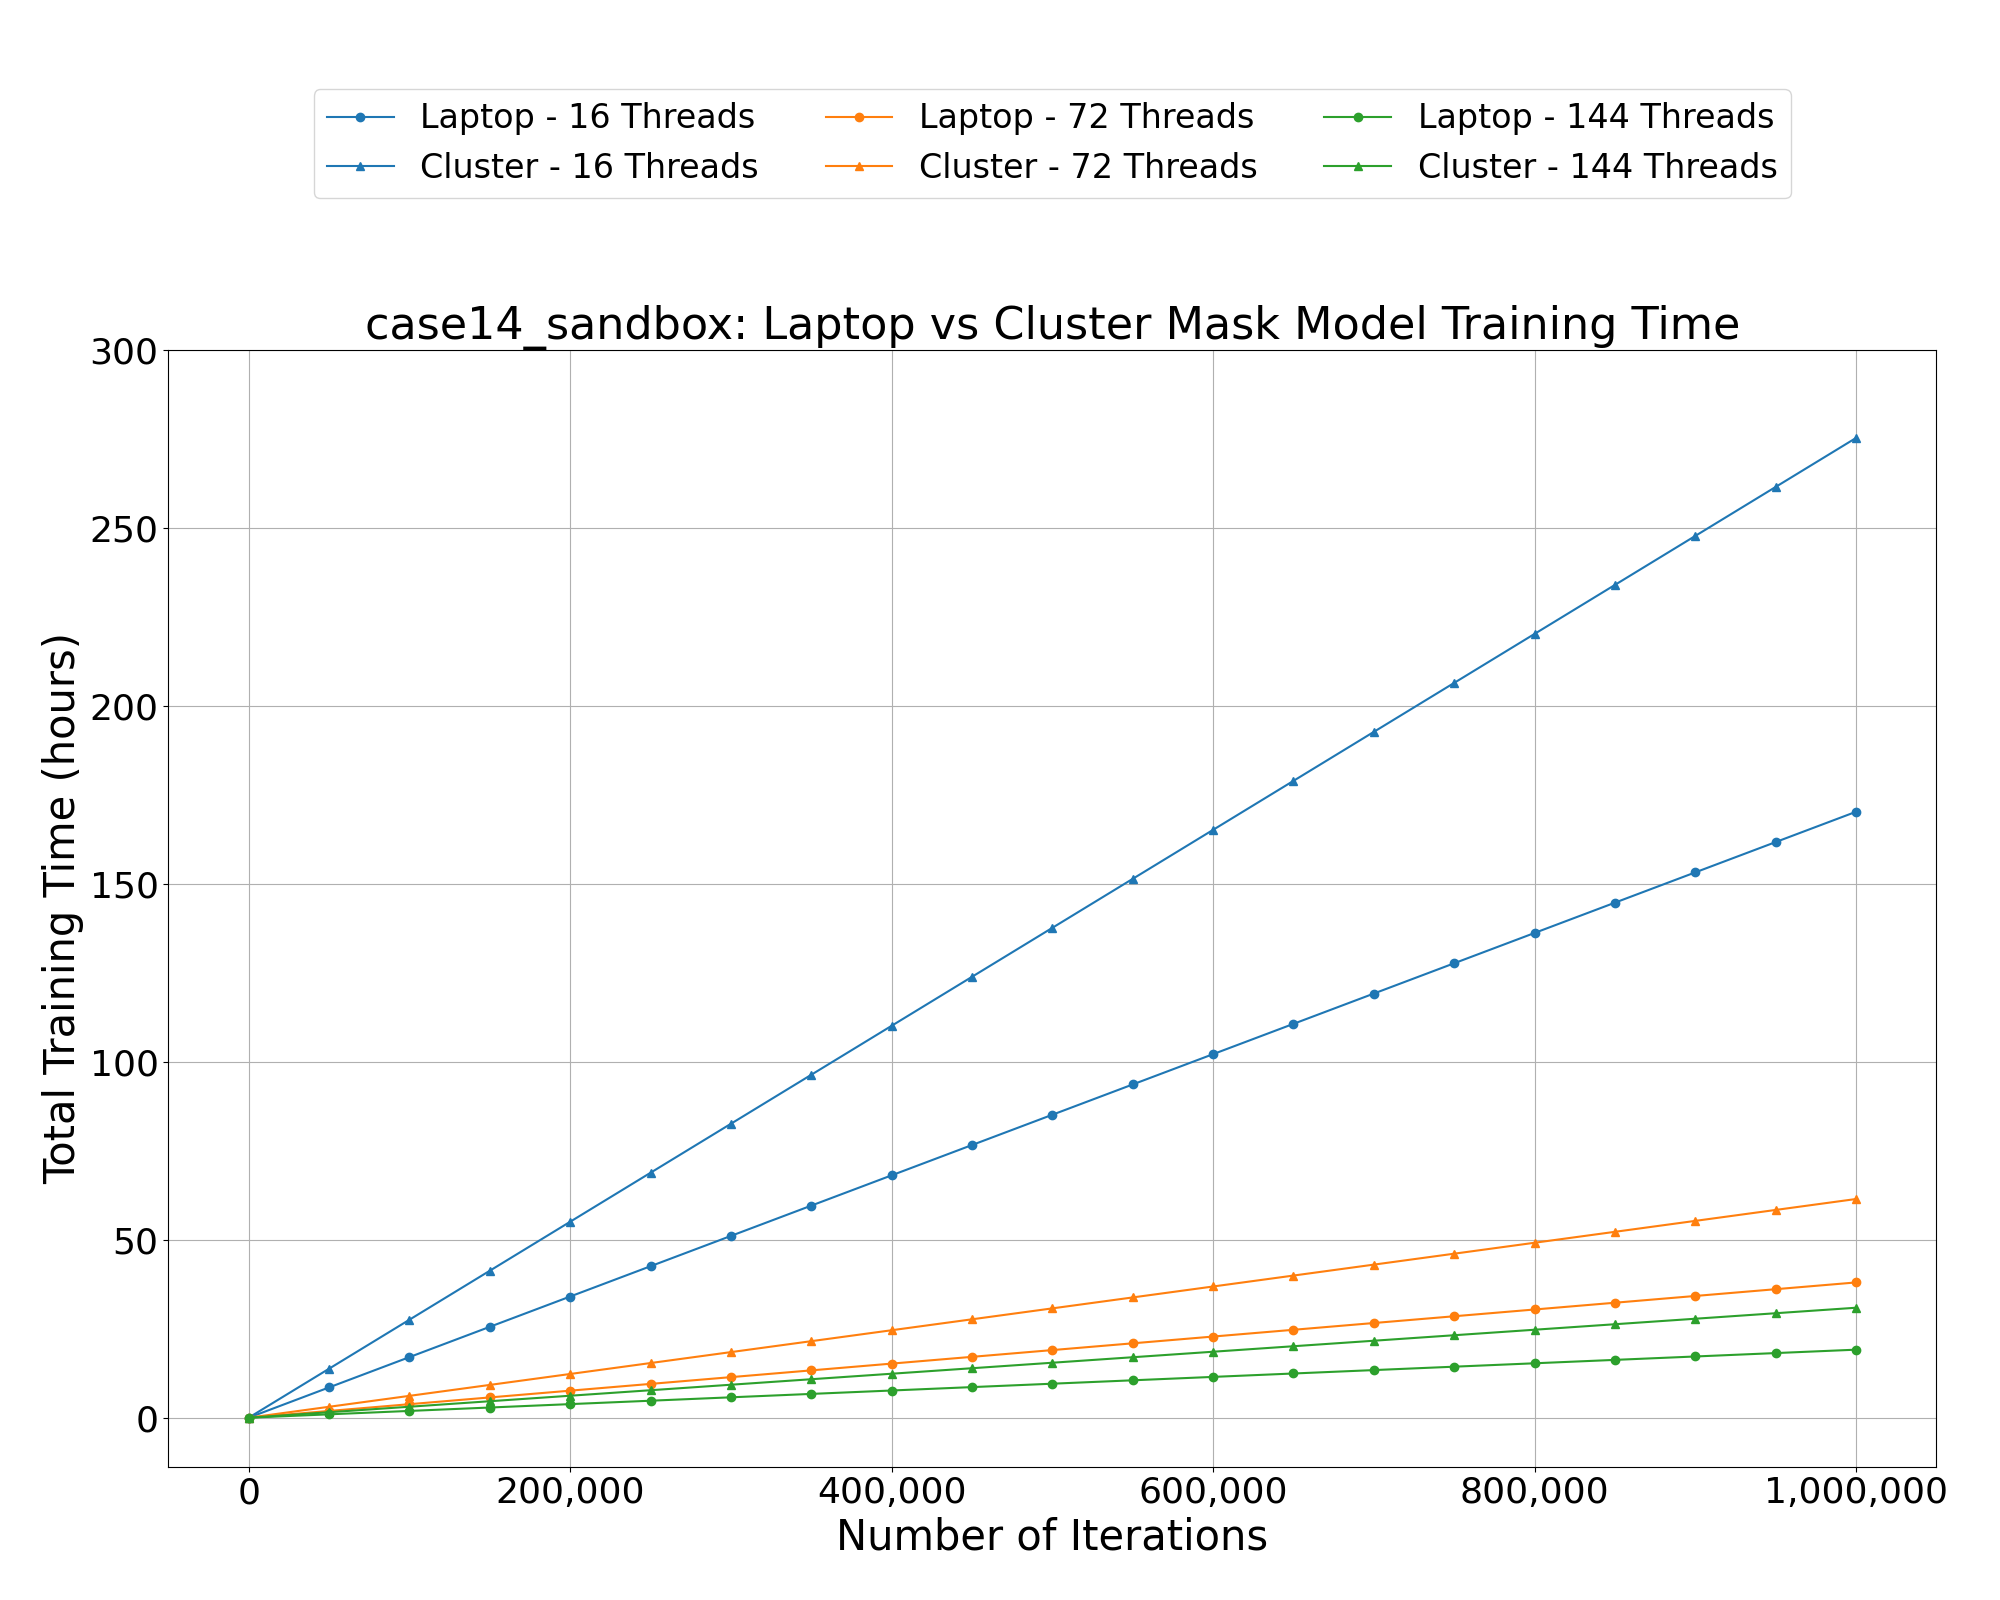
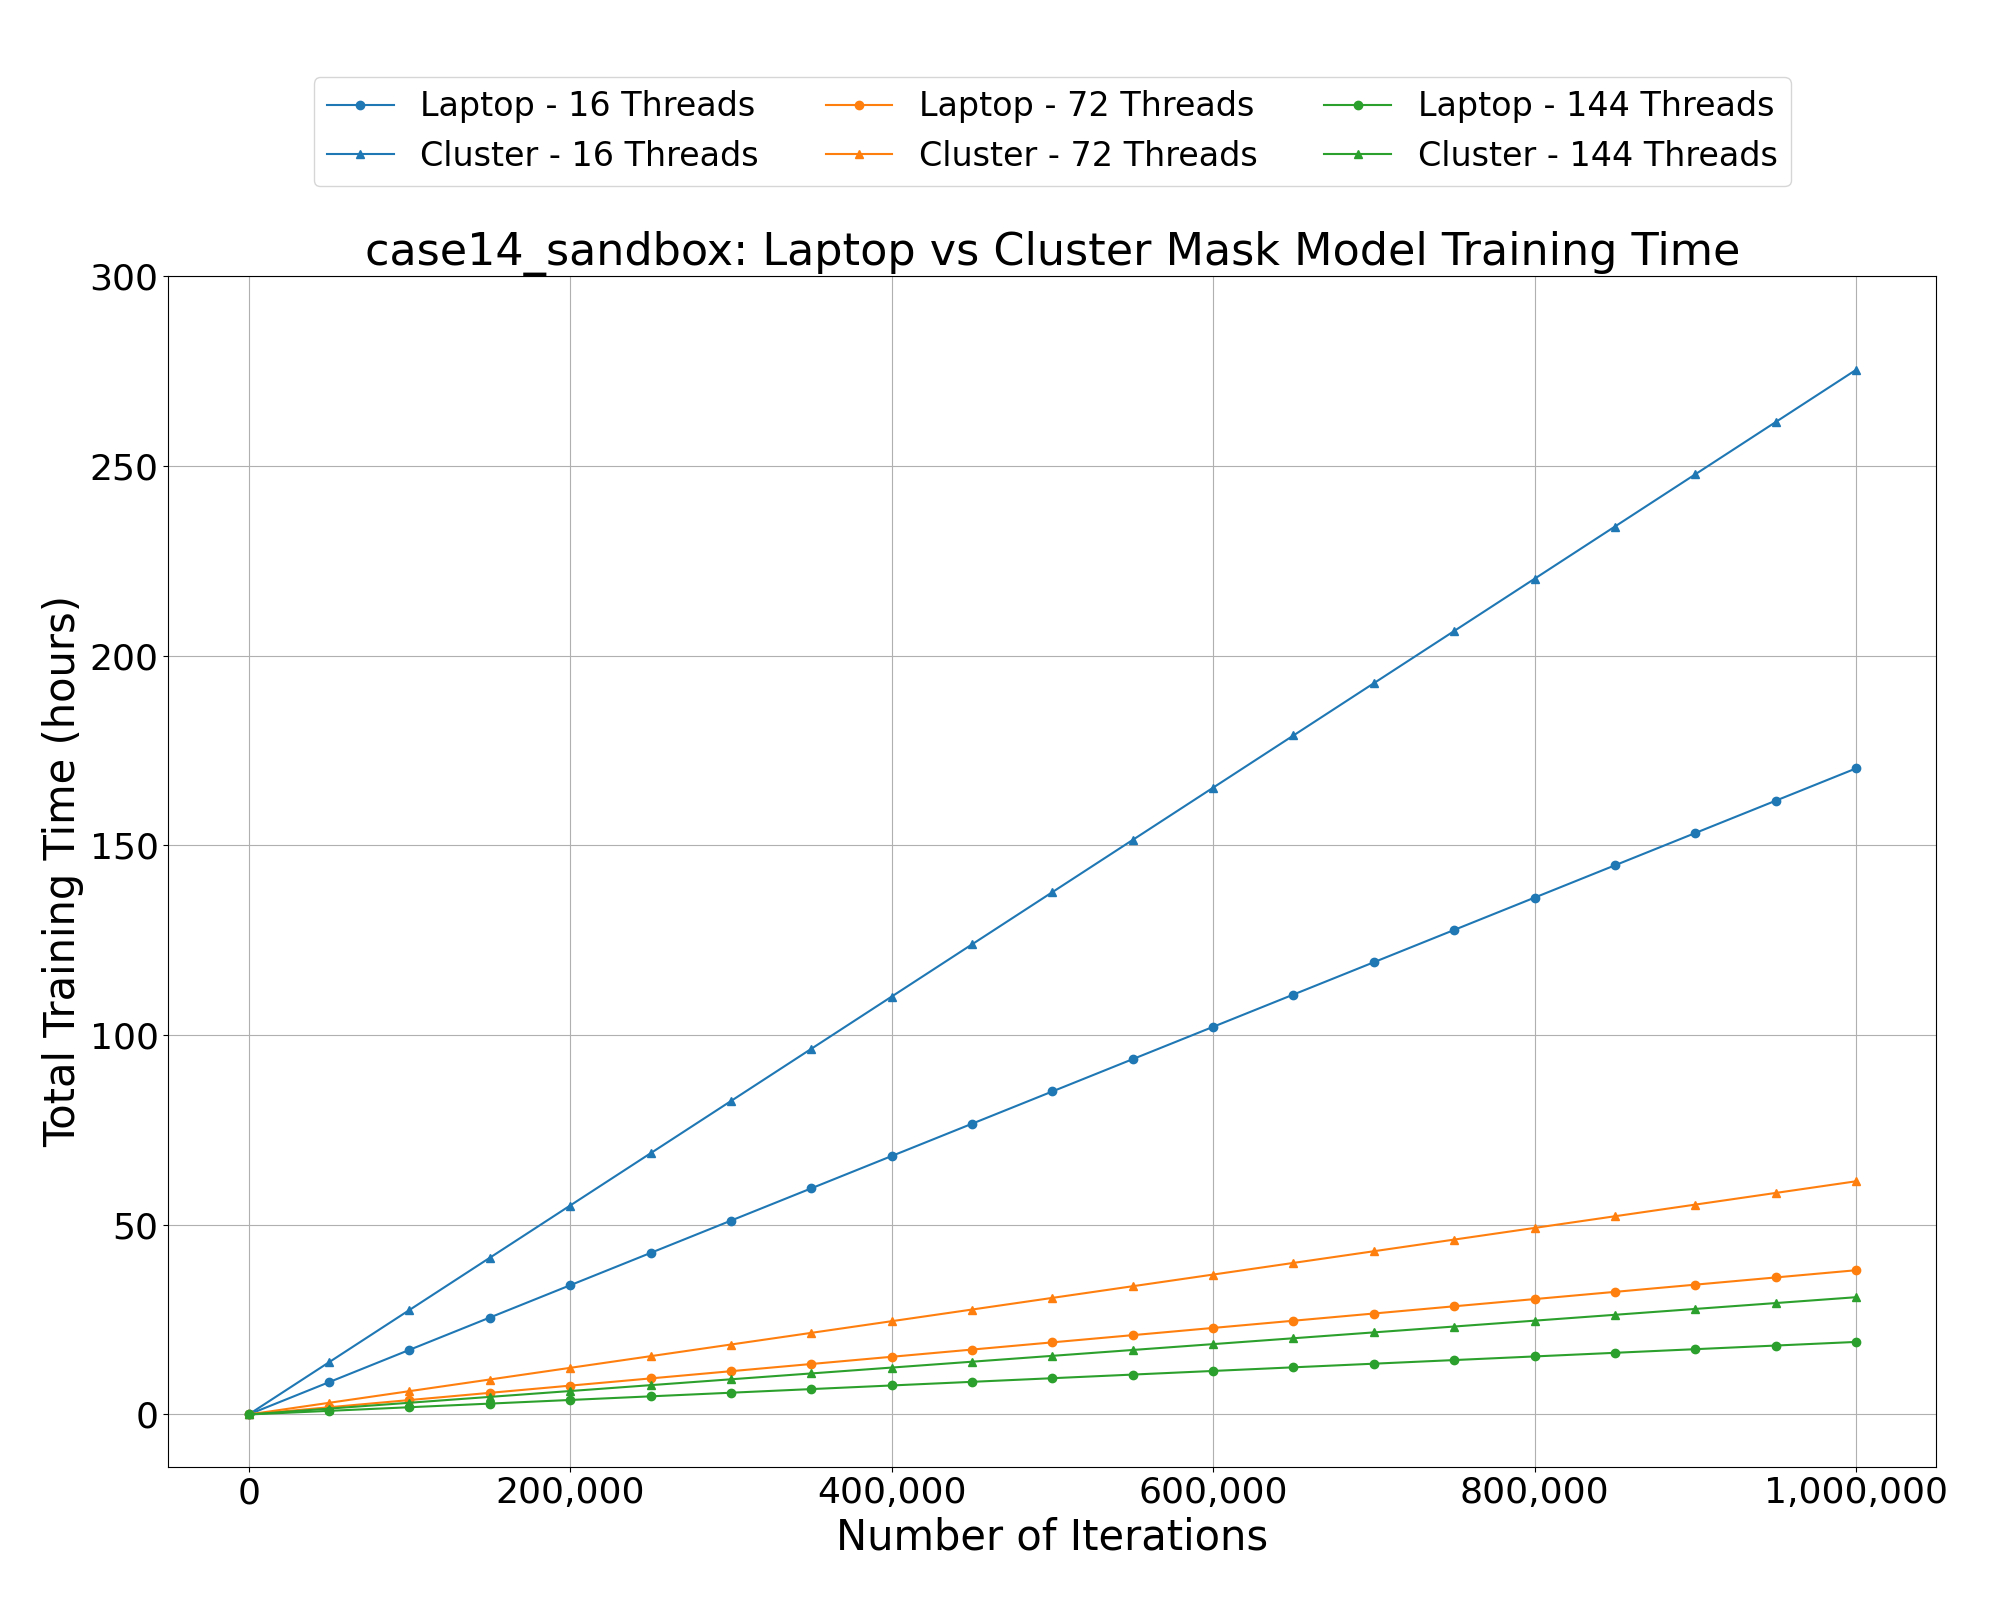
WIP plots

diff --git a/src/plots.py b/src/plots.py
@@ -94,13 +94,19 @@ def plot_env_comparison(
             plt.ylabel("Total Training Time (hours, years)")
 
             # Let matplotlib handle log ticks automatically for better results
-            # Optionally, you can format the tick labels to show years as well:
             def log_year_formatter(x, pos):
                 if x <= 0:
                     return "0"
                 return f"{int(x):,}\n({x/8760:.2f}y)"
 
             ax.yaxis.set_major_formatter(mticker.FuncFormatter(log_year_formatter))
+
+            # Add more horizontal grid lines (minor grid)
+            ax.yaxis.set_minor_locator(
+                mticker.LogLocator(base=10.0, subs=np.arange(1, 10), numticks=100)
+            )
+            ax.grid(which="minor", axis="y", linestyle=":", linewidth=0.7, alpha=0.6)
+            ax.grid(which="major", axis="y", linestyle="-", linewidth=1.2)
         else:
             # Only show hours, no weeks for sandbox
             hours_ticks = ax.get_yticks()
@@ -114,8 +120,13 @@ def plot_env_comparison(
 
         plt.title(f"{env}: Laptop vs Cluster Mask Model Training Time")
         plt.legend(
-            lines, labels, ncol=len(threads_list), loc="lower center",
-            bbox_to_anchor=(0.5, 1.13), borderaxespad=0.2, frameon=True
+            lines,
+            labels,
+            ncol=len(threads_list),
+            loc="lower center",
+            bbox_to_anchor=(0.5, 1.07),
+            borderaxespad=0.2,
+            frameon=True,
         )
         plt.grid(True)
         plt.gca().xaxis.set_major_formatter(mticker.StrMethodFormatter("{x:,.0f}"))
@@ -210,8 +221,13 @@ def plot_ppo_env_comparison(threads_list):
 
     plt.title("case14_sandbox: Laptop vs Cluster PPO Training Time (1 Env)")
     plt.legend(
-        lines, labels, ncol=len(threads_list), loc="lower center",
-        bbox_to_anchor=(0.5, 1.13), borderaxespad=0.2, frameon=True
+        lines,
+        labels,
+        ncol=len(threads_list),
+        loc="lower center",
+        bbox_to_anchor=(0.5, 1.07),
+        borderaxespad=0.2,
+        frameon=True,
     )
     plt.grid(True)
     plt.gca().xaxis.set_major_formatter(mticker.StrMethodFormatter("{x:,.0f}"))
